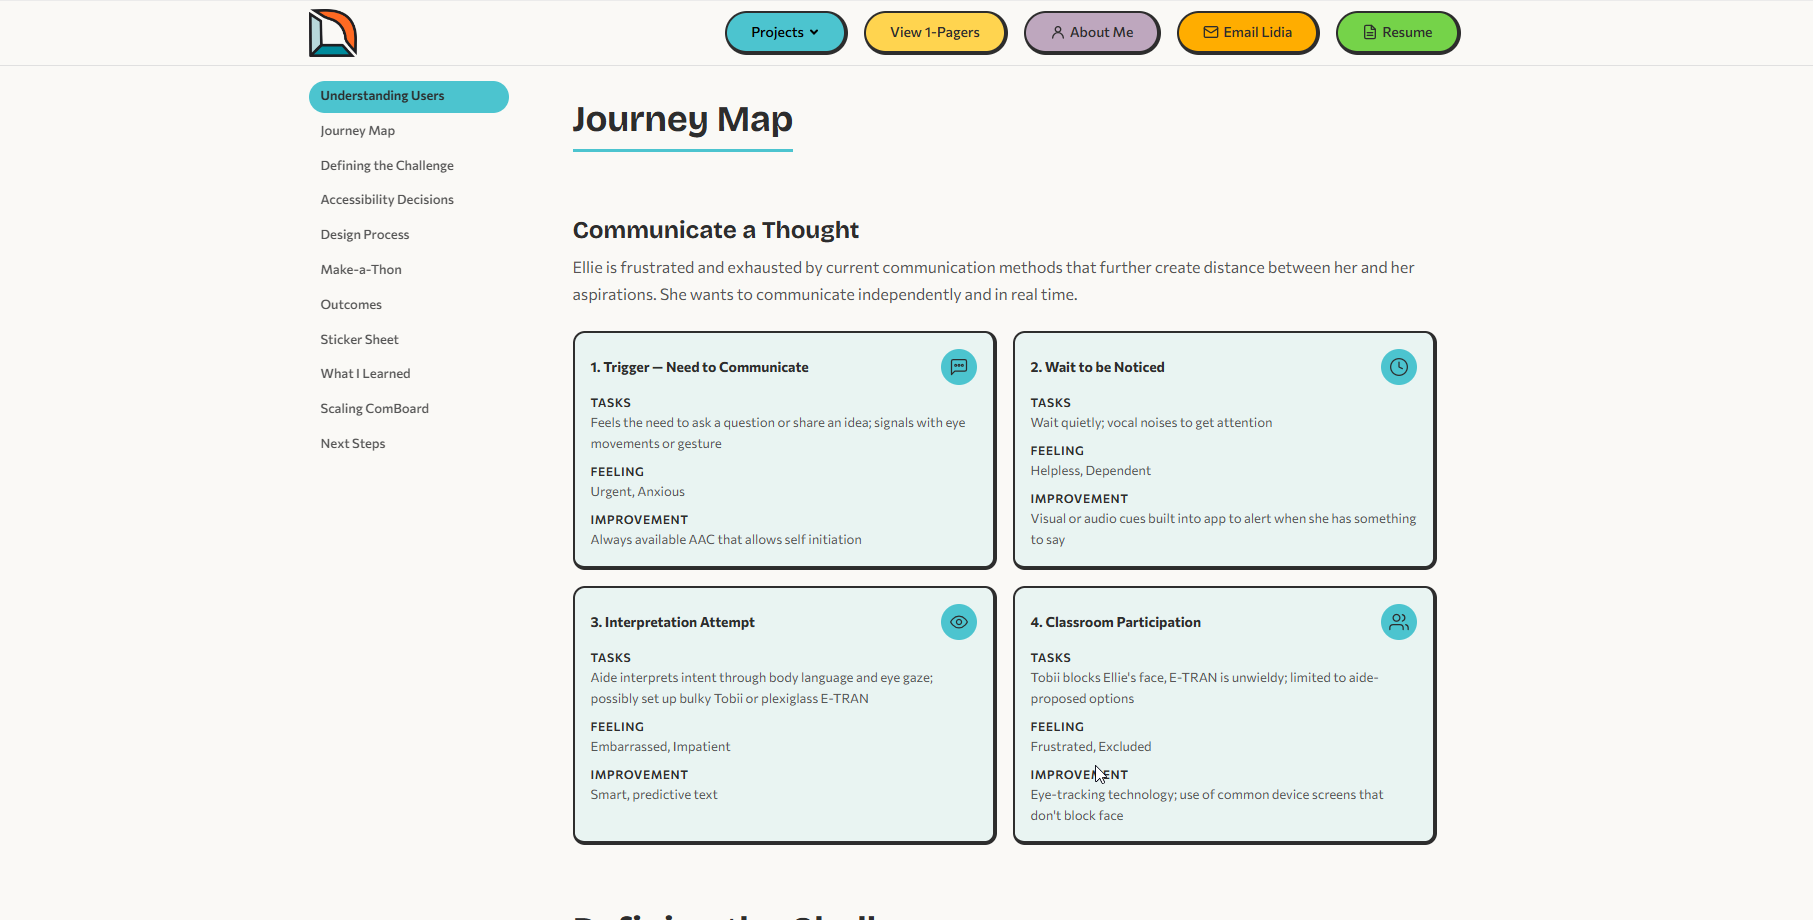
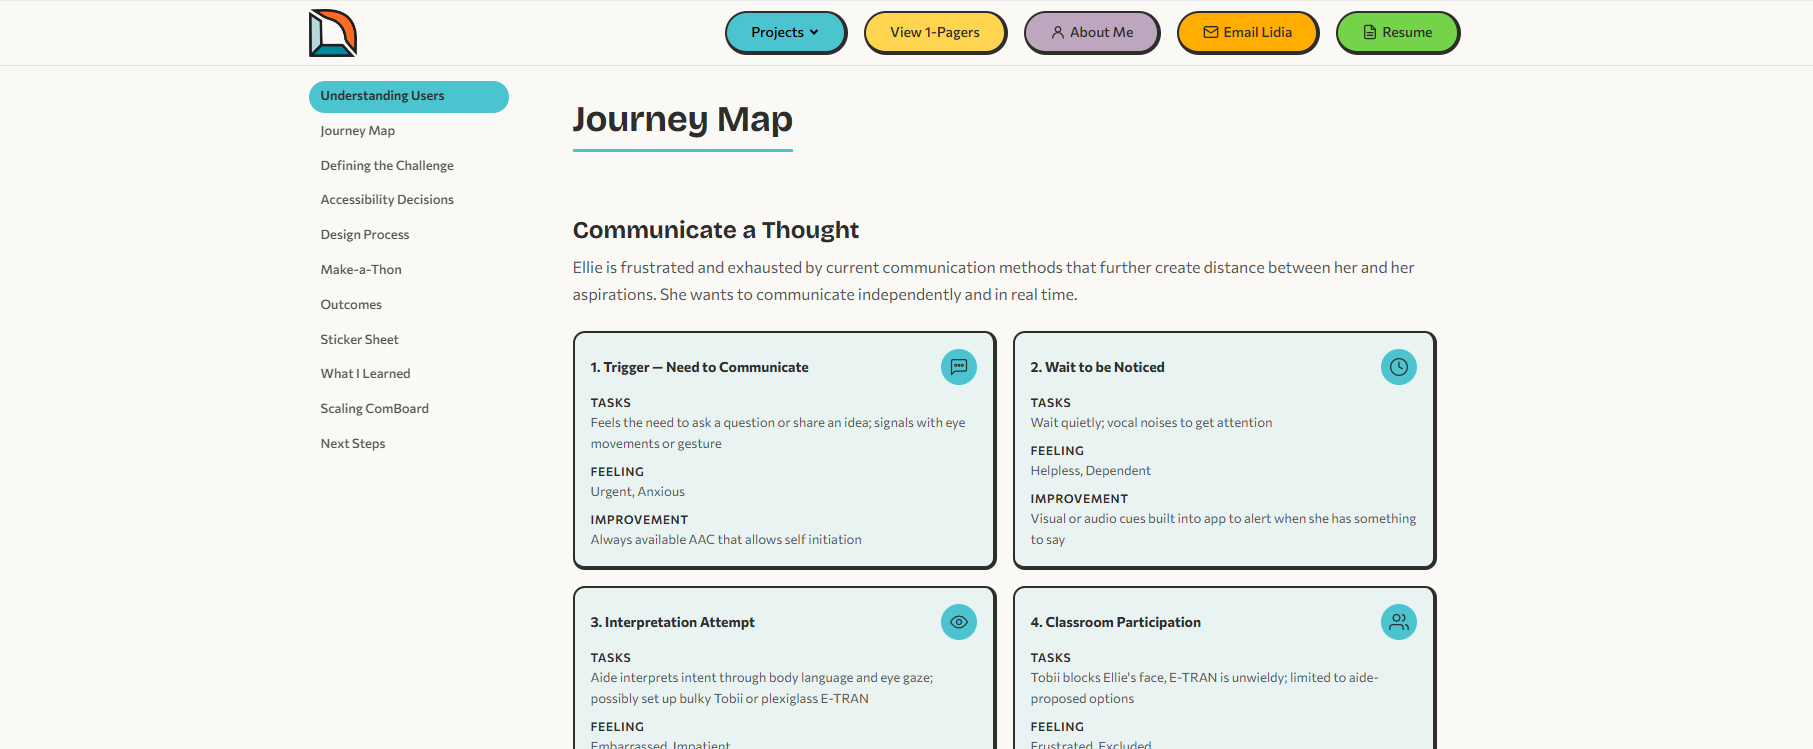
Add descriptive text to Before & After pairs and match image heights
- Added design and accessibility commentary for each comparison pair
- Noted improved orange-to-yellow color contrast on hero CTA
- Noted improved project card hierarchy with per-project accent colors
- Cropped persona, journey map, and design process images to match
  heights within each pair

diff --git a/src/styles/global.css b/src/styles/global.css
@@ -2122,6 +2122,12 @@ strong {
   display: block;
 }
 
+.before-after__desc {
+  font-size: 0.9rem;
+  color: var(--color-text-muted);
+  margin-bottom: var(--space-sm);
+}
+
 .before-after__figure figcaption {
   font-size: 0.8rem;
   font-weight: 600;
